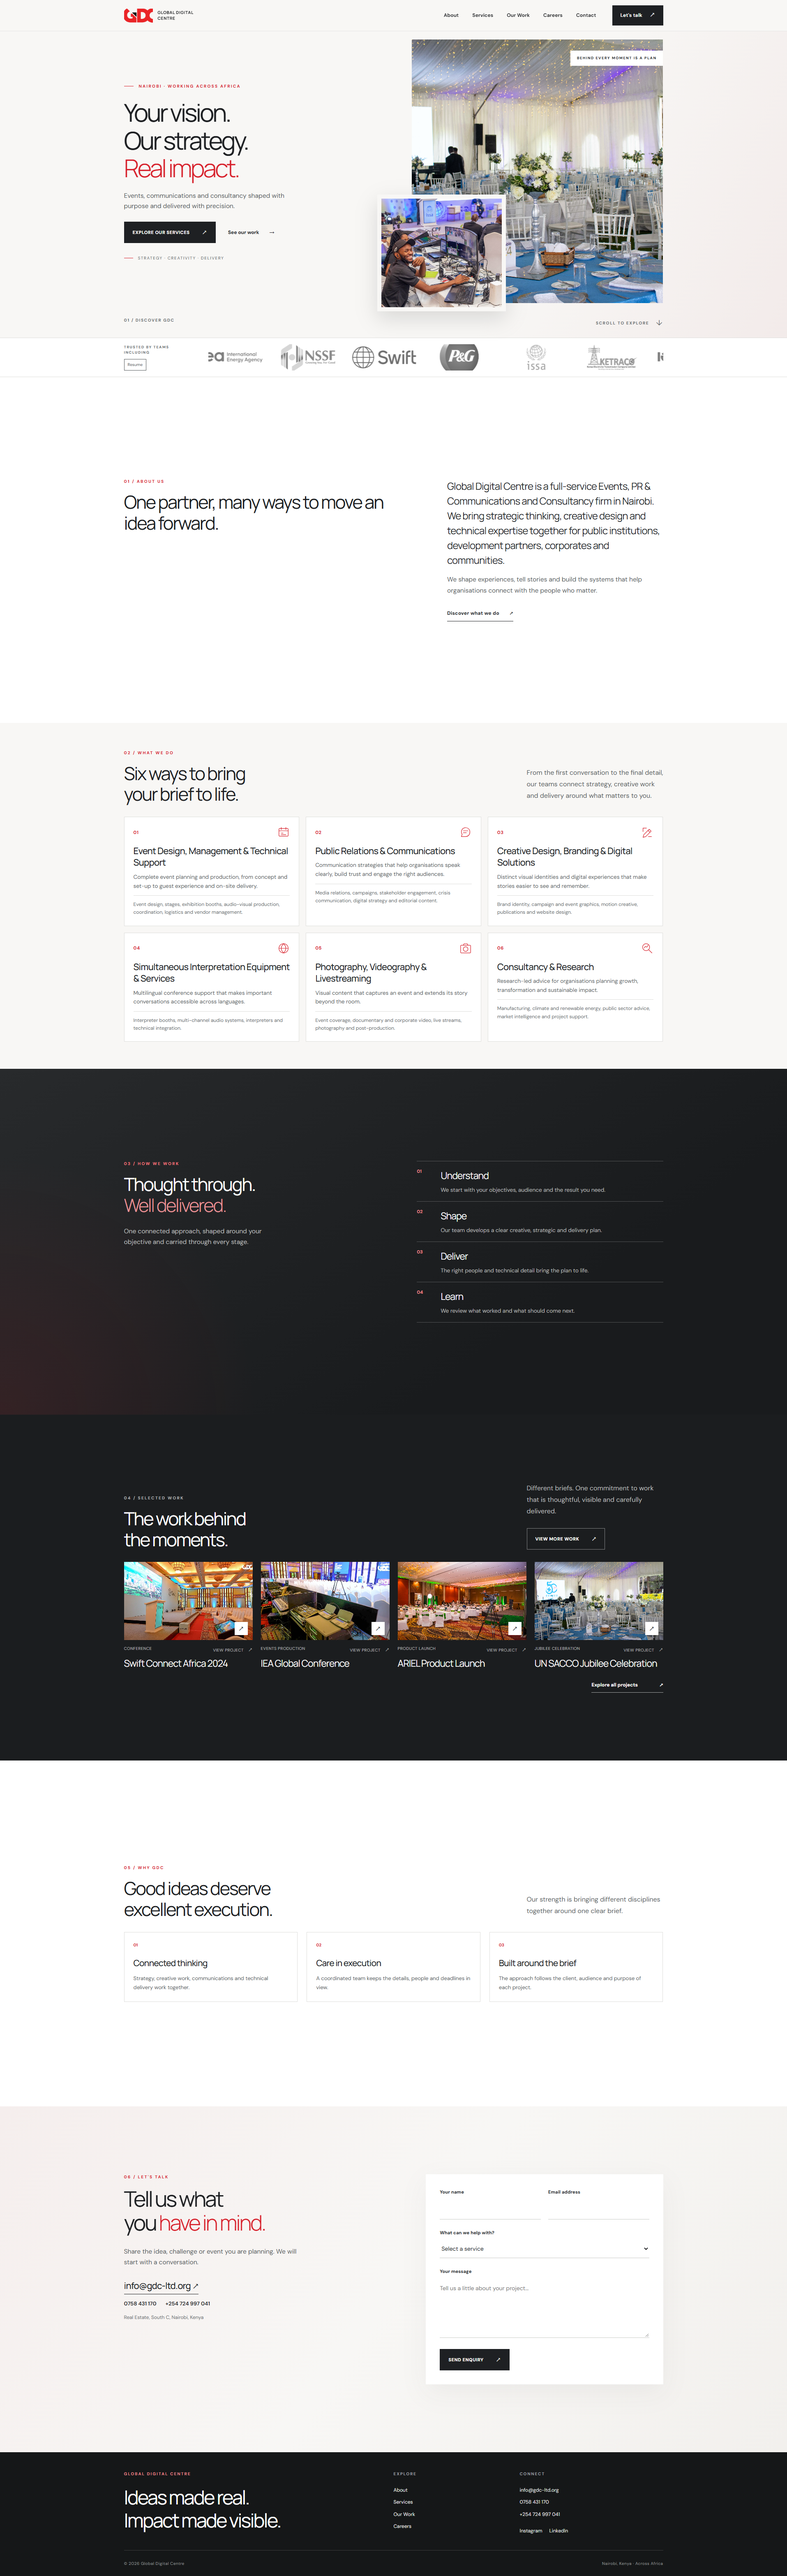
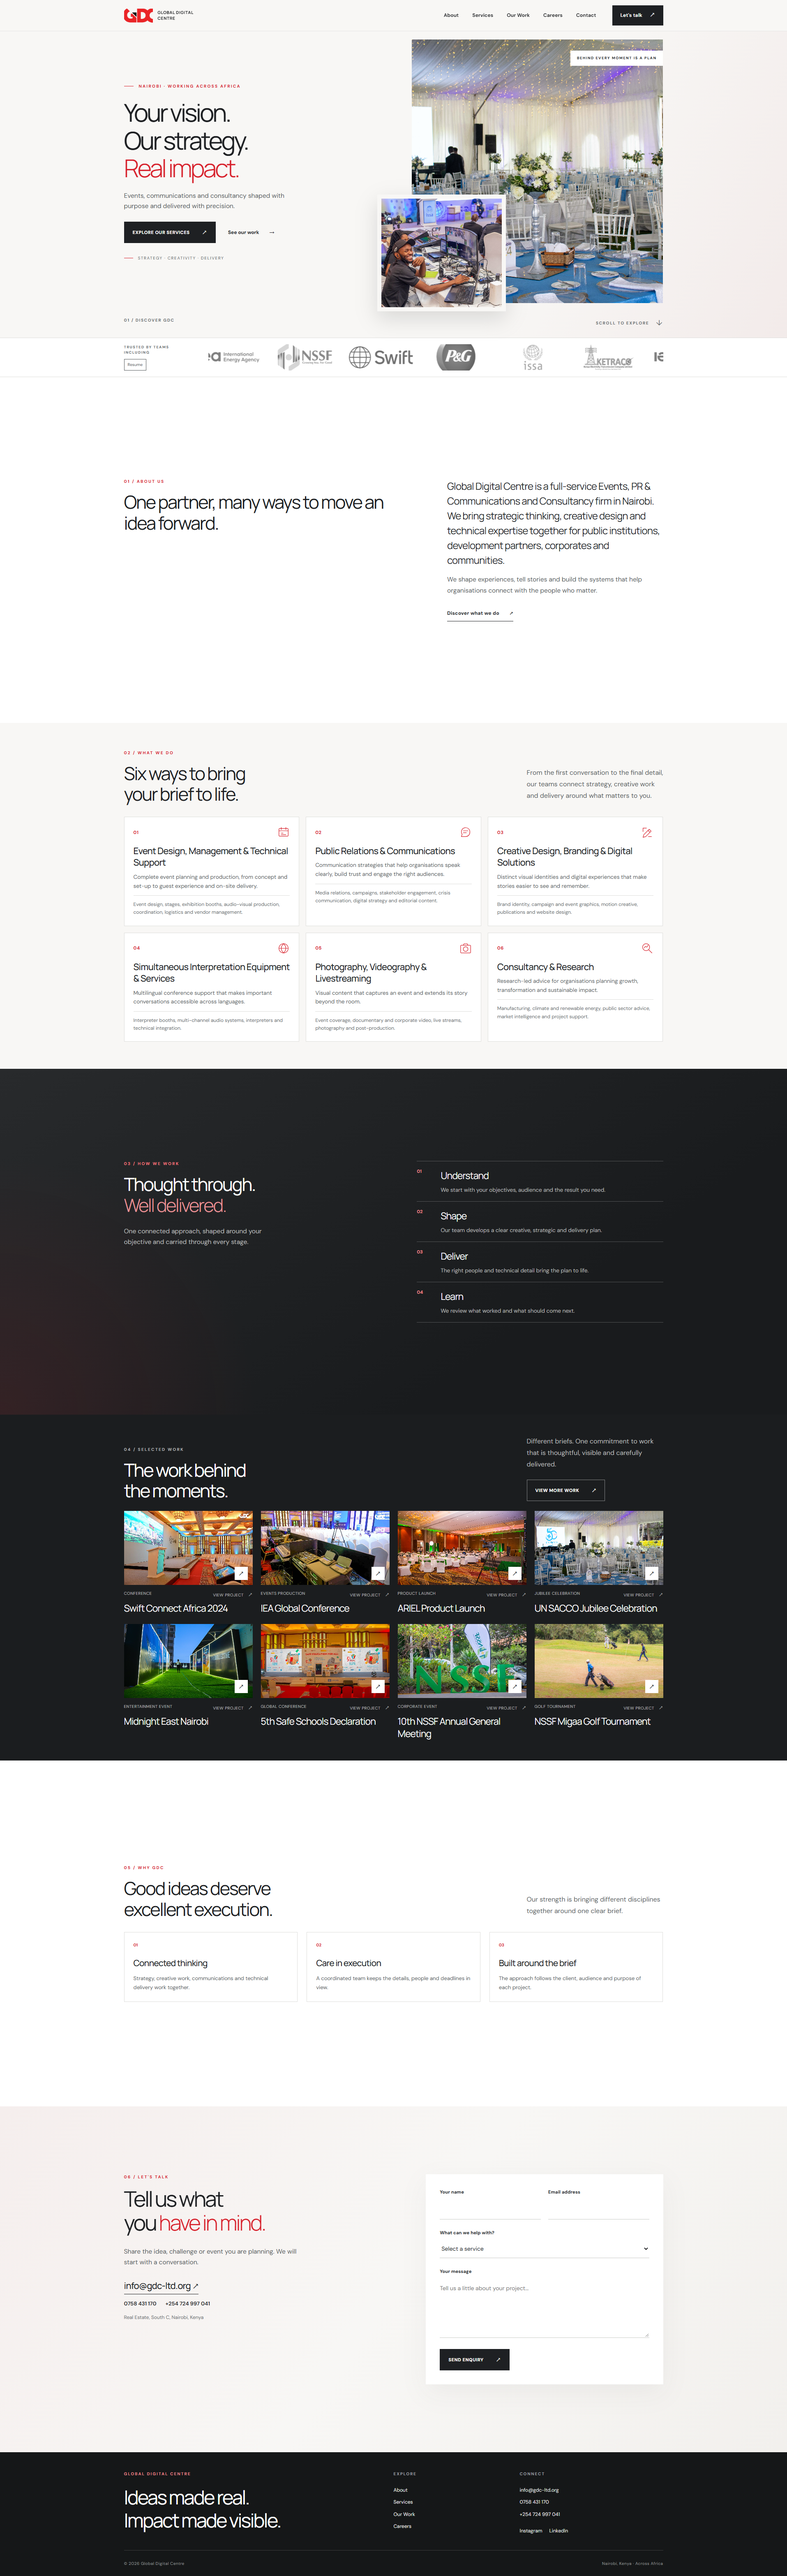
Expand selected work into two rows and route navigation through home section

diff --git a/index.html b/index.html
@@ -25,7 +25,7 @@
           <span></span><span></span>
         </button>
         <nav class="main-nav" id="main-nav" aria-label="Main navigation">
-          <a href="index.html#about" >About</a><a href="index.html#services" >Services</a><a href="our-work/index.html" >Our Work</a><a href="careers/index.html" >Careers</a><a href="index.html#contact" >Contact</a>
+          <a href="index.html#about" >About</a><a href="index.html#services" >Services</a><a href="index.html#work" >Our Work</a><a href="careers/index.html" >Careers</a><a href="index.html#contact" >Contact</a>
           <a class="nav-cta" href="index.html#contact">Let's talk <span aria-hidden="true">↗</span></a>
         </nav>
       </div>
@@ -39,7 +39,7 @@
         <p class="hero-lead">Events, communications and consultancy shaped with purpose and delivered with precision.</p>
         <div class="hero-actions">
           <a class="button button-dark" href="#services">Explore our services <span aria-hidden="true">↗</span></a>
-          <a class="text-link" href="our-work/index.html">See our work <span aria-hidden="true">→</span></a>
+          <a class="text-link" href="#work">See our work <span aria-hidden="true">→</span></a>
         </div>
         <div class="hero-caption"><span class="tiny-red-line"></span> Strategy · Creativity · Delivery</div>
       </div>
@@ -82,7 +82,7 @@
   <section class="section work-preview" id="work">
     <div class="container">
       <div class="section-intro work-intro"><div><p class="section-label">04 / SELECTED WORK</p><h2 class="section-heading">The work behind<br>the moments.</h2></div><div><p>Different briefs. One commitment to work that is thoughtful, visible and carefully delivered.</p><a class="button button-outline-light" href="our-work/index.html">View more work <span aria-hidden="true">↗</span></a></div></div>
-      <div class="preview-grid"><a class="project-card project-card-large" href="our-work/swift-connect-africa-2024/index.html" data-category="Conferences">
+      <div class="preview-grid"><a class="project-card " href="our-work/swift-connect-africa-2024/index.html" data-category="Conferences">
     <div class="project-card-image"><img src="assets/media/projects/swift/cover.jpg" alt="Swift Connect Africa 2024 project" loading="lazy" decoding="async"><span class="card-arrow" aria-hidden="true">↗</span></div>
     <div class="project-card-meta"><span>Conference</span><span>View project <span aria-hidden="true">↗</span></span></div>
     <h3>Swift Connect Africa 2024</h3>
@@ -98,8 +98,23 @@
     <div class="project-card-image"><img src="assets/media/projects/un-sacco/cover.jpg" alt="UN SACCO Jubilee Celebration project" loading="lazy" decoding="async"><span class="card-arrow" aria-hidden="true">↗</span></div>
     <div class="project-card-meta"><span>Jubilee Celebration</span><span>View project <span aria-hidden="true">↗</span></span></div>
     <h3>UN SACCO Jubilee Celebration</h3>
+  </a><a class="project-card " href="our-work/midnight-east-nairobi/index.html" data-category="Experiences">
+    <div class="project-card-image"><img src="assets/media/projects/shanila/cover.jpg" alt="Midnight East Nairobi project" loading="lazy" decoding="async"><span class="card-arrow" aria-hidden="true">↗</span></div>
+    <div class="project-card-meta"><span>Entertainment Event</span><span>View project <span aria-hidden="true">↗</span></span></div>
+    <h3>Midnight East Nairobi</h3>
+  </a><a class="project-card " href="our-work/5th-safe-schools-declaration/index.html" data-category="Conferences">
+    <div class="project-card-image"><img src="assets/media/projects/safeschools/cover.jpg" alt="5th Safe Schools Declaration project" loading="lazy" decoding="async"><span class="card-arrow" aria-hidden="true">↗</span></div>
+    <div class="project-card-meta"><span>Global Conference</span><span>View project <span aria-hidden="true">↗</span></span></div>
+    <h3>5th Safe Schools Declaration</h3>
+  </a><a class="project-card " href="our-work/10th-nssf-annual-general-meeting/index.html" data-category="Corporate">
+    <div class="project-card-image"><img src="assets/media/projects/nssf/cover.jpg" alt="10th NSSF Annual General Meeting project" loading="lazy" decoding="async"><span class="card-arrow" aria-hidden="true">↗</span></div>
+    <div class="project-card-meta"><span>Corporate Event</span><span>View project <span aria-hidden="true">↗</span></span></div>
+    <h3>10th NSSF Annual General Meeting</h3>
+  </a><a class="project-card " href="our-work/nssf-migaa-golf-tournament/index.html" data-category="Corporate">
+    <div class="project-card-image"><img src="assets/media/projects/migaa/cover.jpg" alt="NSSF Migaa Golf Tournament project" loading="lazy" decoding="async"><span class="card-arrow" aria-hidden="true">↗</span></div>
+    <div class="project-card-meta"><span>Golf Tournament</span><span>View project <span aria-hidden="true">↗</span></span></div>
+    <h3>NSSF Migaa Golf Tournament</h3>
   </a></div>
-      <div class="work-bottom-link"><a href="our-work/index.html">Explore all projects <span aria-hidden="true">↗</span></a></div>
     </div>
   </section>
 
@@ -122,7 +137,7 @@
           <span>Explore</span>
           <a href="index.html#about">About</a>
           <a href="index.html#services">Services</a>
-          <a href="our-work/index.html">Our Work</a>
+          <a href="index.html#work">Our Work</a>
           <a href="careers/index.html">Careers</a>
         </div>
         <div class="footer-links">

diff --git a/styles.css b/styles.css
@@ -137,13 +137,15 @@ a:focus-visible, button:focus-visible, input:focus-visible, select:focus-visible
 .approach-step p { margin: 0; color: #b7b9b9; font-size: 13.5px; }
 
 /* Work cards */
-.work-preview { color: white; background: #1b1d1f; }
+.work-preview { padding-block: 40px; color: white; background: #1b1d1f; }
 .work-preview .section-label { color: #ee777e; }
 .work-preview .section-heading { color: white; }
 .work-preview .section-intro p { color: #aeb1b1; }
 .work-preview .work-intro > div > p:not(.section-label) { color: #b7b9b9; }
-.work-intro > div:last-child .button { margin-top: 20px; }
-.preview-grid { display: grid; grid-template-columns: repeat(4, 1fr); gap: 28px 20px; }
+.work-intro { margin-bottom: 24px; }
+.work-intro > div:last-child .button { margin-top: 16px; }
+.preview-grid { display: grid; grid-template-columns: repeat(4, minmax(0, 1fr)); gap: 24px 20px; }
+.preview-grid .project-card-image { width: 100%; max-height: 180px; }
 .project-card { display: block; min-width: 0; }
 .project-card-image { position: relative; aspect-ratio: 1.65; max-height: 230px; overflow: hidden; background: #dadada; }
 .project-card-image::after { content: ''; position: absolute; inset: 0; background: linear-gradient(0deg, rgba(0,0,0,.2), transparent 50%); pointer-events: none; }
@@ -155,11 +157,6 @@ a:focus-visible, button:focus-visible, input:focus-visible, select:focus-visible
 .project-card-meta span:last-child { color: inherit; }
 .project-card-meta span:last-child span { margin-left: 8px; font-size: 14px; }
 .project-card h2, .project-card h3 { margin: 6px 0 0; font-family: var(--font-display); font-size: clamp(18px, 1.6vw, 23px); font-weight: 400; line-height: 1.28; letter-spacing: -.04em; }
-.project-card-large { grid-row: span 1; }
-.work-bottom-link { display: flex; justify-content: flex-end; margin-top: 28px; }
-.work-bottom-link a { border-bottom: 1px solid rgba(255,255,255,.6); padding-bottom: 7px; font-size: 12px; font-weight: 700; }
-.work-bottom-link a:hover { color: #ec888e; border-color: #ec888e; }
-.work-bottom-link span { margin-left: 50px; }
 
 /* Reasons and contact */
 .why-section { background: var(--white); }
@@ -299,6 +296,13 @@ body.gallery-open { overflow: hidden; }
 .career-post-body ul { padding-left: 20px; margin: 0 0 12px; }
 .career-post-body .career-post-status { margin: 0; font-size: 12px; color: var(--muted); }
 
+@media (min-width: 1101px) and (max-height: 800px) {
+  .work-preview { padding-block: 32px; }
+  .work-intro .section-heading { font-size: 36px; }
+  .preview-grid .project-card-image { max-height: 140px; }
+  .preview-grid .project-card h3 { font-size: 18px; }
+}
+
 @media (max-width: 1100px) {
   .container { width: min(100% - 64px, 1312px); }
   .main-nav { gap: 17px; }
@@ -375,7 +379,6 @@ body.gallery-open { overflow: hidden; }
   .preview-grid, .why-grid, .project-grid { grid-template-columns: 1fr; }
   .preview-grid, .project-grid { gap: 24px; }
   .project-card-image { max-height: 200px; }
-  .work-bottom-link { margin-top: 24px; }
   .why-grid { gap: 11px; }
   .why-grid article { min-height: 0; padding: 23px; }
   .why-grid article > span { margin-bottom: 20px; }

diff --git a/our-work/10th-nssf-annual-general-meeting/index.html b/our-work/10th-nssf-annual-general-meeting/index.html
@@ -25,7 +25,7 @@
           <span></span><span></span>
         </button>
         <nav class="main-nav" id="main-nav" aria-label="Main navigation">
-          <a href="../../index.html#about" >About</a><a href="../../index.html#services" >Services</a><a href="../../our-work/index.html" aria-current="page">Our Work</a><a href="../../careers/index.html" >Careers</a><a href="../../index.html#contact" >Contact</a>
+          <a href="../../index.html#about" >About</a><a href="../../index.html#services" >Services</a><a href="../../index.html#work" >Our Work</a><a href="../../careers/index.html" >Careers</a><a href="../../index.html#contact" >Contact</a>
           <a class="nav-cta" href="../../index.html#contact">Let's talk <span aria-hidden="true">↗</span></a>
         </nav>
       </div>
@@ -52,7 +52,7 @@
           <span>Explore</span>
           <a href="../../index.html#about">About</a>
           <a href="../../index.html#services">Services</a>
-          <a href="../../our-work/index.html">Our Work</a>
+          <a href="../../index.html#work">Our Work</a>
           <a href="../../careers/index.html">Careers</a>
         </div>
         <div class="footer-links">

diff --git a/our-work/5th-safe-schools-declaration/index.html b/our-work/5th-safe-schools-declaration/index.html
@@ -25,7 +25,7 @@
           <span></span><span></span>
         </button>
         <nav class="main-nav" id="main-nav" aria-label="Main navigation">
-          <a href="../../index.html#about" >About</a><a href="../../index.html#services" >Services</a><a href="../../our-work/index.html" aria-current="page">Our Work</a><a href="../../careers/index.html" >Careers</a><a href="../../index.html#contact" >Contact</a>
+          <a href="../../index.html#about" >About</a><a href="../../index.html#services" >Services</a><a href="../../index.html#work" >Our Work</a><a href="../../careers/index.html" >Careers</a><a href="../../index.html#contact" >Contact</a>
           <a class="nav-cta" href="../../index.html#contact">Let's talk <span aria-hidden="true">↗</span></a>
         </nav>
       </div>
@@ -54,7 +54,7 @@
           <span>Explore</span>
           <a href="../../index.html#about">About</a>
           <a href="../../index.html#services">Services</a>
-          <a href="../../our-work/index.html">Our Work</a>
+          <a href="../../index.html#work">Our Work</a>
           <a href="../../careers/index.html">Careers</a>
         </div>
         <div class="footer-links">

diff --git a/our-work/accelerated-partnership-for-renewables-in-africa/index.html b/our-work/accelerated-partnership-for-renewables-in-africa/index.html
@@ -25,7 +25,7 @@
           <span></span><span></span>
         </button>
         <nav class="main-nav" id="main-nav" aria-label="Main navigation">
-          <a href="../../index.html#about" >About</a><a href="../../index.html#services" >Services</a><a href="../../our-work/index.html" aria-current="page">Our Work</a><a href="../../careers/index.html" >Careers</a><a href="../../index.html#contact" >Contact</a>
+          <a href="../../index.html#about" >About</a><a href="../../index.html#services" >Services</a><a href="../../index.html#work" >Our Work</a><a href="../../careers/index.html" >Careers</a><a href="../../index.html#contact" >Contact</a>
           <a class="nav-cta" href="../../index.html#contact">Let's talk <span aria-hidden="true">↗</span></a>
         </nav>
       </div>
@@ -52,7 +52,7 @@
           <span>Explore</span>
           <a href="../../index.html#about">About</a>
           <a href="../../index.html#services">Services</a>
-          <a href="../../our-work/index.html">Our Work</a>
+          <a href="../../index.html#work">Our Work</a>
           <a href="../../careers/index.html">Careers</a>
         </div>
         <div class="footer-links">

diff --git a/our-work/ariel-product-launch/index.html b/our-work/ariel-product-launch/index.html
@@ -25,7 +25,7 @@
           <span></span><span></span>
         </button>
         <nav class="main-nav" id="main-nav" aria-label="Main navigation">
-          <a href="../../index.html#about" >About</a><a href="../../index.html#services" >Services</a><a href="../../our-work/index.html" aria-current="page">Our Work</a><a href="../../careers/index.html" >Careers</a><a href="../../index.html#contact" >Contact</a>
+          <a href="../../index.html#about" >About</a><a href="../../index.html#services" >Services</a><a href="../../index.html#work" >Our Work</a><a href="../../careers/index.html" >Careers</a><a href="../../index.html#contact" >Contact</a>
           <a class="nav-cta" href="../../index.html#contact">Let's talk <span aria-hidden="true">↗</span></a>
         </nav>
       </div>
@@ -52,7 +52,7 @@
           <span>Explore</span>
           <a href="../../index.html#about">About</a>
           <a href="../../index.html#services">Services</a>
-          <a href="../../our-work/index.html">Our Work</a>
+          <a href="../../index.html#work">Our Work</a>
           <a href="../../careers/index.html">Careers</a>
         </div>
         <div class="footer-links">

diff --git a/our-work/iea-global-conference/index.html b/our-work/iea-global-conference/index.html
@@ -25,7 +25,7 @@
           <span></span><span></span>
         </button>
         <nav class="main-nav" id="main-nav" aria-label="Main navigation">
-          <a href="../../index.html#about" >About</a><a href="../../index.html#services" >Services</a><a href="../../our-work/index.html" aria-current="page">Our Work</a><a href="../../careers/index.html" >Careers</a><a href="../../index.html#contact" >Contact</a>
+          <a href="../../index.html#about" >About</a><a href="../../index.html#services" >Services</a><a href="../../index.html#work" >Our Work</a><a href="../../careers/index.html" >Careers</a><a href="../../index.html#contact" >Contact</a>
           <a class="nav-cta" href="../../index.html#contact">Let's talk <span aria-hidden="true">↗</span></a>
         </nav>
       </div>
@@ -69,7 +69,7 @@
           <span>Explore</span>
           <a href="../../index.html#about">About</a>
           <a href="../../index.html#services">Services</a>
-          <a href="../../our-work/index.html">Our Work</a>
+          <a href="../../index.html#work">Our Work</a>
           <a href="../../careers/index.html">Careers</a>
         </div>
         <div class="footer-links">

diff --git a/our-work/issa-technical-seminar/index.html b/our-work/issa-technical-seminar/index.html
@@ -25,7 +25,7 @@
           <span></span><span></span>
         </button>
         <nav class="main-nav" id="main-nav" aria-label="Main navigation">
-          <a href="../../index.html#about" >About</a><a href="../../index.html#services" >Services</a><a href="../../our-work/index.html" aria-current="page">Our Work</a><a href="../../careers/index.html" >Careers</a><a href="../../index.html#contact" >Contact</a>
+          <a href="../../index.html#about" >About</a><a href="../../index.html#services" >Services</a><a href="../../index.html#work" >Our Work</a><a href="../../careers/index.html" >Careers</a><a href="../../index.html#contact" >Contact</a>
           <a class="nav-cta" href="../../index.html#contact">Let's talk <span aria-hidden="true">↗</span></a>
         </nav>
       </div>
@@ -52,7 +52,7 @@
           <span>Explore</span>
           <a href="../../index.html#about">About</a>
           <a href="../../index.html#services">Services</a>
-          <a href="../../our-work/index.html">Our Work</a>
+          <a href="../../index.html#work">Our Work</a>
           <a href="../../careers/index.html">Careers</a>
         </div>
         <div class="footer-links">

diff --git a/our-work/kaiico-2024/index.html b/our-work/kaiico-2024/index.html
@@ -25,7 +25,7 @@
           <span></span><span></span>
         </button>
         <nav class="main-nav" id="main-nav" aria-label="Main navigation">
-          <a href="../../index.html#about" >About</a><a href="../../index.html#services" >Services</a><a href="../../our-work/index.html" aria-current="page">Our Work</a><a href="../../careers/index.html" >Careers</a><a href="../../index.html#contact" >Contact</a>
+          <a href="../../index.html#about" >About</a><a href="../../index.html#services" >Services</a><a href="../../index.html#work" >Our Work</a><a href="../../careers/index.html" >Careers</a><a href="../../index.html#contact" >Contact</a>
           <a class="nav-cta" href="../../index.html#contact">Let's talk <span aria-hidden="true">↗</span></a>
         </nav>
       </div>
@@ -55,7 +55,7 @@
           <span>Explore</span>
           <a href="../../index.html#about">About</a>
           <a href="../../index.html#services">Services</a>
-          <a href="../../our-work/index.html">Our Work</a>
+          <a href="../../index.html#work">Our Work</a>
           <a href="../../careers/index.html">Careers</a>
         </div>
         <div class="footer-links">

diff --git a/our-work/midnight-east-nairobi/index.html b/our-work/midnight-east-nairobi/index.html
@@ -25,7 +25,7 @@
           <span></span><span></span>
         </button>
         <nav class="main-nav" id="main-nav" aria-label="Main navigation">
-          <a href="../../index.html#about" >About</a><a href="../../index.html#services" >Services</a><a href="../../our-work/index.html" aria-current="page">Our Work</a><a href="../../careers/index.html" >Careers</a><a href="../../index.html#contact" >Contact</a>
+          <a href="../../index.html#about" >About</a><a href="../../index.html#services" >Services</a><a href="../../index.html#work" >Our Work</a><a href="../../careers/index.html" >Careers</a><a href="../../index.html#contact" >Contact</a>
           <a class="nav-cta" href="../../index.html#contact">Let's talk <span aria-hidden="true">↗</span></a>
         </nav>
       </div>
@@ -56,7 +56,7 @@
           <span>Explore</span>
           <a href="../../index.html#about">About</a>
           <a href="../../index.html#services">Services</a>
-          <a href="../../our-work/index.html">Our Work</a>
+          <a href="../../index.html#work">Our Work</a>
           <a href="../../careers/index.html">Careers</a>
         </div>
         <div class="footer-links">

diff --git a/our-work/nssf-migaa-golf-tournament/index.html b/our-work/nssf-migaa-golf-tournament/index.html
@@ -25,7 +25,7 @@
           <span></span><span></span>
         </button>
         <nav class="main-nav" id="main-nav" aria-label="Main navigation">
-          <a href="../../index.html#about" >About</a><a href="../../index.html#services" >Services</a><a href="../../our-work/index.html" aria-current="page">Our Work</a><a href="../../careers/index.html" >Careers</a><a href="../../index.html#contact" >Contact</a>
+          <a href="../../index.html#about" >About</a><a href="../../index.html#services" >Services</a><a href="../../index.html#work" >Our Work</a><a href="../../careers/index.html" >Careers</a><a href="../../index.html#contact" >Contact</a>
           <a class="nav-cta" href="../../index.html#contact">Let's talk <span aria-hidden="true">↗</span></a>
         </nav>
       </div>
@@ -52,7 +52,7 @@
           <span>Explore</span>
           <a href="../../index.html#about">About</a>
           <a href="../../index.html#services">Services</a>
-          <a href="../../our-work/index.html">Our Work</a>
+          <a href="../../index.html#work">Our Work</a>
           <a href="../../careers/index.html">Careers</a>
         </div>
         <div class="footer-links">

diff --git a/our-work/regional-climate-change-summit/index.html b/our-work/regional-climate-change-summit/index.html
@@ -25,7 +25,7 @@
           <span></span><span></span>
         </button>
         <nav class="main-nav" id="main-nav" aria-label="Main navigation">
-          <a href="../../index.html#about" >About</a><a href="../../index.html#services" >Services</a><a href="../../our-work/index.html" aria-current="page">Our Work</a><a href="../../careers/index.html" >Careers</a><a href="../../index.html#contact" >Contact</a>
+          <a href="../../index.html#about" >About</a><a href="../../index.html#services" >Services</a><a href="../../index.html#work" >Our Work</a><a href="../../careers/index.html" >Careers</a><a href="../../index.html#contact" >Contact</a>
           <a class="nav-cta" href="../../index.html#contact">Let's talk <span aria-hidden="true">↗</span></a>
         </nav>
       </div>
@@ -52,7 +52,7 @@
           <span>Explore</span>
           <a href="../../index.html#about">About</a>
           <a href="../../index.html#services">Services</a>
-          <a href="../../our-work/index.html">Our Work</a>
+          <a href="../../index.html#work">Our Work</a>
           <a href="../../careers/index.html">Careers</a>
         </div>
         <div class="footer-links">
